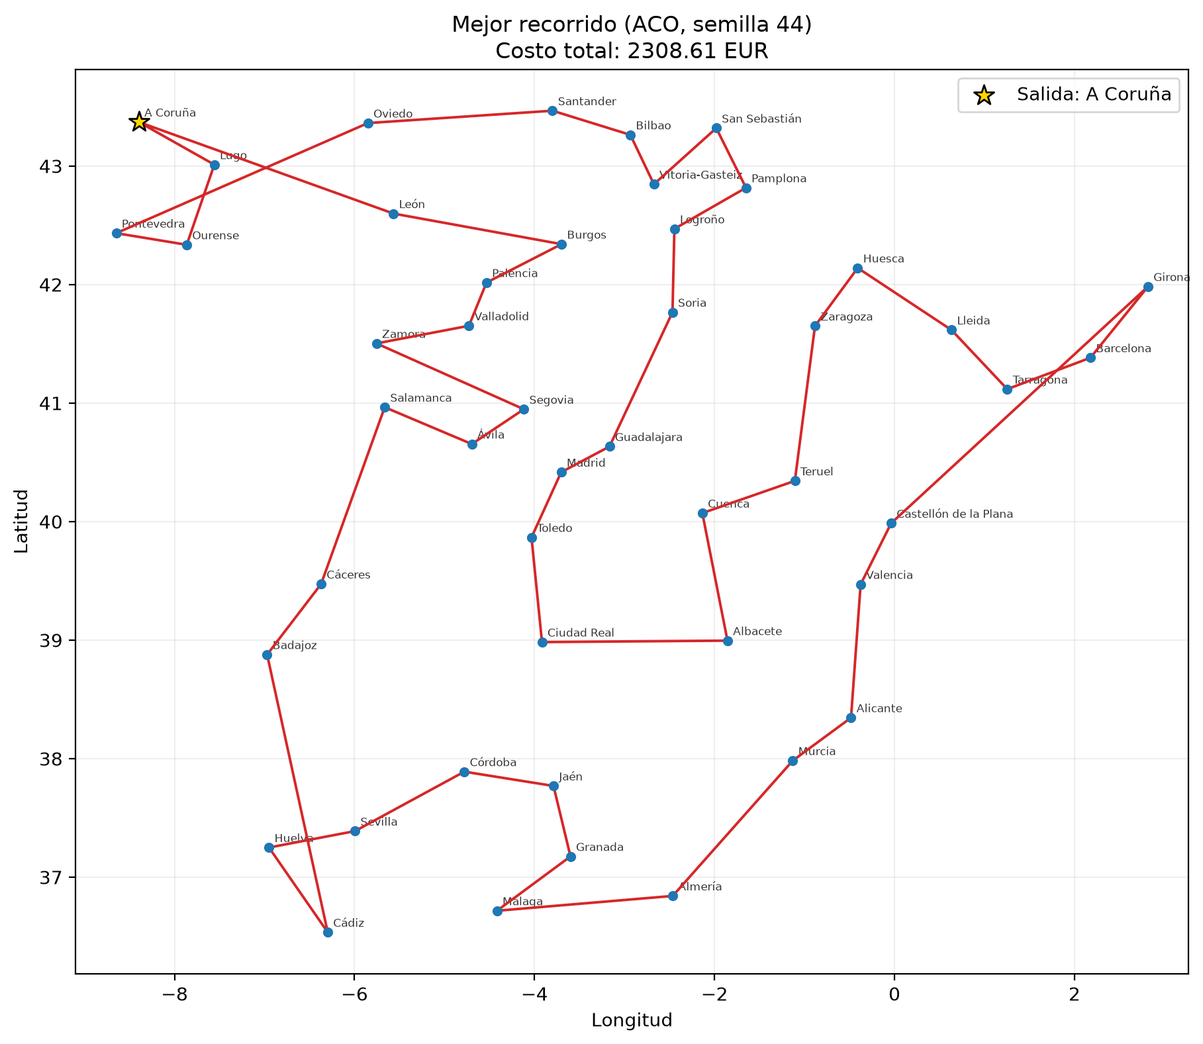
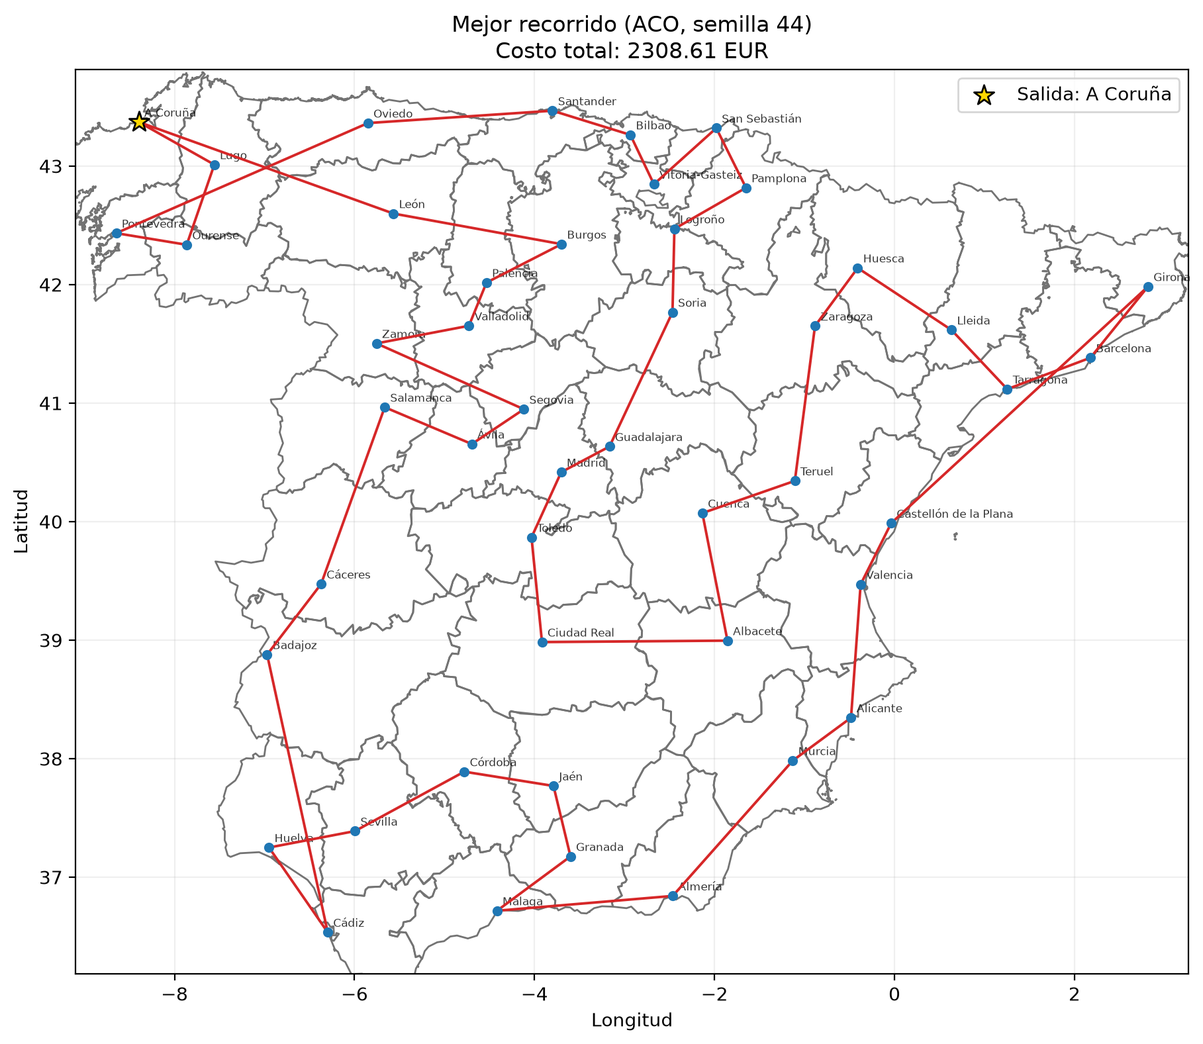
index.md y actualizaciones de resultados

diff --git a/docs/index.md b/docs/index.md
@@ -97,7 +97,7 @@ $$
 
 ### Problema del viajante con costo monetario (parte 2)
 
-Se busca la permutación π de las 47 ciudades que minimiza el costo del circuito cerrado. El costo del tramo i → j no es simétrico, porque el tiempo y los peajes dependen del sentido:
+Se busca la permutación π de las 47 ciudades que minimiza el costo del circuito cerrado. En general el costo del tramo i → j puede depender del sentido; con los datos usados (promedio de las rutas de ida y de vuelta) la matriz resulta simétrica:
 
 $$
 c_{ij}(h) = h\,t_{ij} + p_{ij} + d_{ij}\,\frac{l}{100}\,\pi_{\text{comb}}, \qquad C(\pi, h) = \sum_{k} c_{\pi_k \pi_{k+1}}(h)
@@ -229,44 +229,149 @@ Las dos funciones fallan al gradiente por razones distintas, y esa diferencia es
 
 ## Parte 2: datos y metodología
 
-El código de la parte 2 está completo, pero ninguno de sus datos de entrada está todavía verificado, así que esta sección describe el método y deja marcado, dato por dato, qué falta. Cada dato debe quedar con su fuente y su fecha de consulta (`data/sources.md`).
+Todos los datos se consultaron el 13 de octubre de 2026 y están guardados en el repositorio (`data/`), así que la ejecución no usa Internet. Las fuentes, fechas y limitaciones de cada dato están en `sources.md` y en `data/valhalla/FUENTES.md`.
 
-**Instancia.** 47 capitales de provincia de la España peninsular: las 50 provincias menos Palma, Las Palmas de Gran Canaria y Santa Cruz de Tenerife. Ceuta y Melilla no son capitales de provincia.
+**Instancia.** 47 capitales de provincia de la España peninsular: las 50 provincias menos Palma, Las Palmas de Gran Canaria y Santa Cruz de Tenerife. Ceuta y Melilla no son capitales de provincia. Las coordenadas se tomaron de Wikidata (propiedad P625), y el identificador de cada ciudad queda en `data/cities.csv` para que se pueda verificar.
 
 **Costo por tramo.** Para ir de i a j se suman tres componentes, todos en euros:
 
 - **Tiempo:** valor de la hora × horas de viaje.
-- **Peajes:** importe del trayecto para un turismo de clase 1.
+- **Peajes:** importe del trayecto para un vehículo ligero, sin descuentos.
 - **Combustible:** kilómetros × consumo (L/100 km) / 100 × precio del litro.
 
-Las matrices de distancia y tiempo se obtienen una sola vez de la API Table de OSRM, que devuelve la ruta más rápida según el perfil, no necesariamente la más corta ni la de menor costo; por eso la matriz puede ser asimétrica. Una vez guardadas en `data/`, la ejecución no depende de Internet.
+**Distancias y tiempos.** Se calcularon con Valhalla 3.9.1, un motor de rutas de código abierto sobre OpenStreetMap, en el servidor público de FOSSGIS. Para cada par se usa la ruta más rápida con peajes permitidos, calculada en los dos sentidos y promediada; por eso la matriz es simétrica. La mediana de los tramos es de 536 km y 5.2 h, y el más largo mide 1247 km. La misma ruta se usa para el tiempo, la distancia y los peajes, de modo que el costo de cada tramo corresponde a un único viaje real.
+
+La primera versión del código usaba OSRM (API Table). Al comparar ambas fuentes, la diferencia relativa de distancia tiene mediana 1.7 %, percentil 95 de 16.5 % y máximo de 50 %. Medir los peajes sobre una ruta y tomar el tiempo de otra habría dado costos que no corresponden a ningún viaje, así que se descartó mezclarlas. Los datos de OSRM se conservan en `data/osrm/` solo para comparar.
+
+**Peajes.** Se identificaron las autopistas de peaje que recorre cada ruta midiendo, arista por arista, los kilómetros sobre vías marcadas `toll=yes` en OpenStreetMap. Cada vía se asignó a su grupo tarifario y se calculó una tarifa por kilómetro a partir del peaje oficial de 2026 de un recorrido de referencia, medido con el mismo motor de rutas:
+
+$$
+\text{tarifa}_a = \frac{\text{peaje oficial del recorrido de referencia}}{\text{km de ese recorrido}}, \qquad p_{ij} = \sum_{a} \text{km}_{ij,a}\,\text{tarifa}_a + \text{cuotas fijas}
+$$
+
+La Tabla 2 muestra las tarifas resultantes. Los túneles de Artxanda tienen cuota fija: 1.55 EUR por paso.
+
+**Tabla 2.** Tarifas por kilómetro de las autopistas de peaje que usan las rutas, vehículo ligero, 2026. Fuente: PDF de tarifas del Ministerio de Transportes y Movilidad Sostenible, SEITT, Bidegi, Interbiak y Audenasa (URL por fila en `data/valhalla/peajes_2026.csv`).
+
+| Autopista | Peaje de referencia (EUR) | km de referencia | EUR/km |
+| --- | --- | --- | --- |
+| AP-6 Villalba – Adanero | 15.70 | 57.46 | 0.273 |
+| AP-51 Villacastín – Ávila | 1.75 | 23.46 | 0.075 |
+| AP-61 San Rafael – Segovia | 3.05 | 25.59 | 0.119 |
+| AP-9 A Coruña – Pontevedra | 16.35 | 111.60 | 0.147 |
+| AP-53 Santiago – Alto de Santo Domingo | 7.25 | 40.36 | 0.180 |
+| AP-66 Campomanes – León | 16.20 | 77.20 | 0.210 |
+| AP-71 León – Astorga | 6.20 | 35.03 | 0.177 |
+| AP-68 Bilbao – Zaragoza | 39.90 | 291.10 | 0.137 |
+| AP-15 Pamplona – Tudela | 11.40 | 69.52 | 0.164 |
+| AP-8/AP-1 Bilbao – Donostia | 13.81 | 75.96 | 0.182 |
+| R-2 | 5.20 | 57.09 | 0.091 |
+| R-3 | 3.40 | 25.35 | 0.134 |
+| R-4 | 6.15 | 51.01 | 0.121 |
+| R-5 | 3.65 | 20.53 | 0.178 |
+| AP-36 Corral de Almaguer – San Clemente | 14.15 | 118.69 | 0.119 |
+| AP-7 Málaga – Guadiaro | 12.00 | 71.45 | 0.168 |
+| C-32 Garraf y Cubelles | 13.45 | 32.73 | 0.411 |
+
+De los 1081 pares de ciudades, 607 (1214 pares dirigidos) pasan por al menos una autopista de peaje. El peaje medio de esos tramos es de 17.09 EUR, y el máximo es de 52.20 EUR (Albacete – Oviedo).
+
+Por ejemplo, de A Coruña a Albacete la ruta recorre 118.69 km de AP-36, 56.41 km de AP-6 y 50.69 km de R-4, y el peaje suma 14.15 + 15.41 + 6.11 = 35.67 EUR.
+
+**Vehículo y combustible.** Dacia Sandero TCe 90 de gasolina (67 kW), con consumo WLTP combinado de 5.3 L/100 km (ADAC Autokatalog). El precio de la gasolina 95 E5 es de 1.7961 EUR/L: la media simple de 10 238 estaciones de la España peninsular, según el Geoportal de Gasolineras del MITECO, con dato del 13/10/2026 a las 22:02.
 
 **Estado de cada dato.**
 
-| Dato | Fuente prevista | Estado |
+| Dato | Fuente | Estado |
 | --- | --- | --- |
-| Coordenadas de las 47 capitales | Fuente primaria (IGN, INE o ayuntamientos) | Las escribió la IA de memoria; solo pasan un control de cordura (rangos y 4 distancias desde Madrid con ±5 %) |
-| Distancias y tiempos | OSRM, API Table, perfil `driving` | Ubicado en data/distances.csv |
-| Peajes (2162 pares dirigidos) | Tarifas oficiales de cada concesionaria, clase 1 | **Pendiente:**  |
-| Vehículo y consumo | Ficha técnica del fabricante u homologación | Completo, vehiculo elegido Dacian Sanndero |
-| Precio del combustible | Fuente oficial con fecha | Fuente en experiment.json |
+| Coordenadas de las 47 capitales | Wikidata (P625) | Verificado; la versión anterior, escrita de memoria por la IA, difería como máximo 1.6 km |
+| Distancias y tiempos | Valhalla 3.9.1 sobre OpenStreetMap (FOSSGIS) | Completo, 1081 pares |
+| Peajes | Tarifas oficiales 2026 prorrateadas por km sobre la ruta de Valhalla | Completo, 2162 pares dirigidos; es una estimación, ver limitaciones |
+| Vehículo y consumo | ADAC Autokatalog | Completo |
+| Precio del combustible | Geoportal de Gasolineras (MITECO), 13/10/2026 | Completo |
 
-**Método para los peajes: decisión pendiente del equipo.** Identificar los tramos de peaje de cada itinerario y sumar las tarifas oficiales exige decidir cuánto del trabajo se hace a mano y cuánto se aproxima. Se exploró detectar los tramos automáticamente con OSRM y OpenStreetMap, pero esa vía se descartó y su código se retiró del repositorio (ver la cacería de la alucinación). Cualquier método que se adopte debe declarar si el importe es oficial o una estimación.
+**Limitaciones de los peajes.**
 
-**Algoritmos y parámetros.** ACO y AG descritos en la fundamentación. Con 3 corridas, ACO de 150 iteraciones y AG de 200 individuos × 400 generaciones, la configuración de ejemplo dura cerca de un minuto; son valores de demostración, no ajustados, y hay que justificar los definitivos. La semilla base es 42 y la corrida i usa 42 + i.
+- Prorratear por kilómetro es una aproximación: en la realidad se paga por tramo o por caseta.
+- Se supone el mismo peaje en los dos sentidos.
+- No se modelan descuentos por recurrencia ni tarifas nocturnas.
+- La concesión de la AP-68 termina el 10/11/2026; después de esa fecha su peaje es 0.
+- Hay tres tarifas con reservas:
+  - AP-15: la columna de la tabla de Audenasa se interpretó como vehículos ligeros.
+  - C-32: tarifa de una fuente secundaria.
+  - R-4 y AP-36: el PDF se titula 2026 pero dice "en vigor desde el 1 de enero de 2025".
 
-**Barrido del valor de la hora.** Para h en una malla (por defecto 0, 10, 20, 40, 80, 160 EUR/h) se ejecutan los algoritmos, se reúnen todas las rutas halladas y se calcula la envolvente inferior de sus rectas C(h) = h·T + M. Los vértices son los valores de h donde cambia la mejor ruta conocida.
+**Algoritmos y parámetros.** ACO y AG como se describen en la fundamentación, con la configuración de `config/experiment.json`:
+
+- ACO: 47 hormigas, 150 iteraciones, α = 1, β = 3, ρ = 0.35.
+- AG: 200 individuos, 400 generaciones, cruce 0.9, mutación 0.15.
+
+Se hicieron 10 corridas por algoritmo con valor de la hora h = 20 EUR/h. La semilla base es 42 y la corrida i usa 42 + i.
+
+**Barrido del valor de la hora.** Para h = 0, 10, 20, 40, 80 y 160 EUR/h se ejecutaron 3 corridas de ACO, se reunieron todas las rutas halladas y se calculó la envolvente inferior de sus rectas C(h) = h·T + M.
 
 ## Parte 2: resultados
 
-**[PENDIENTE: no hay resultados citables hasta cargar los datos reales.]** El código se probó solo con datos sintéticos inventados (`python main.py run --demo`), que no se pueden citar. Cuando existan los datos reales, esta sección debe contener lo siguiente, que `main.py run` y `main.py sweep` ya producen:
+El ACO encontró la ruta más barata y fue mucho más estable que el AG. La Tabla 3 resume las 10 corridas de cada algoritmo con h = 20 EUR/h.
 
-- **Comparación ACO y AG:** tabla con mejor, media, desviación, peor costo y segundos por algoritmo (`results/comparison.csv`), con el número de corridas y la semilla base 42.
-- **Mejor ruta:** el orden de las 47 capitales y el desglose en tiempo, peajes y combustible (`best_route.json`), con el mapa (`best_route.png`) y el GIF de su evolución (`evolution.gif`).
-- **Barrido del valor de la hora:** los valores de h en que cambia la mejor ruta conocida (`hourly_sweep_envelope.csv`) y la figura `hourly_sweep.png`. Esos cambios son una cota superior de los cambios reales, porque los heurísticos no garantizan optimalidad; la columna `gap_vs_best_known_eur` mide cuánto se alejó cada corrida de la mejor ruta conocida.
-- **Análisis:** cuál algoritmo es mejor y con qué parámetros, qué parte del costo pesa más y qué cambia en la ruta cuando sube h (más autopistas de peaje, menos tiempo).
+**Tabla 3.** Costo total del recorrido (EUR) en 10 corridas por algoritmo, h = 20 EUR/h, semillas 42 a 51.
 
-**Observación preliminar con datos sintéticos (no citable).** Con los parámetros de ejemplo, el ACO obtuvo costos menores que el AG (alrededor de 2314 frente a 2630 en la instancia sintética), lo que indica que el AG necesita ajuste de población, generaciones y operadores antes de la comparación definitiva.
+| Algoritmo | Mejor | Media | Desv. est. | Peor | Segundos por corrida |
+| --- | --- | --- | --- | --- | --- |
+| ACO | 2308.61 | 2401.35 | 35.26 | 2433.26 | 17.3 |
+| AG | 2465.36 | 2845.44 | 172.54 | 3092.52 | 10.4 |
+
+La mejor ruta del ACO (semilla 44) recorre 6941 km en 79.3 h. Su costo se reparte así:
+
+- tiempo: 1586.12 EUR (68.7 %);
+- combustible: 660.74 EUR (28.6 %);
+- peajes: 61.74 EUR (2.7 %).
+
+La mejor del AG (semilla 43) es 157 EUR más cara: recorre 587 km más y tarda 5.2 h más.
+
+**Mejor recorrido (ACO):** A Coruña → Lugo → Ourense → Pontevedra → Oviedo → Santander → Bilbao → Vitoria-Gasteiz → San Sebastián → Pamplona → Logroño → Soria → Guadalajara → Madrid → Toledo → Ciudad Real → Albacete → Cuenca → Teruel → Zaragoza → Huesca → Lleida → Tarragona → Barcelona → Girona → Castellón de la Plana → Valencia → Alicante → Murcia → Almería → Málaga → Granada → Jaén → Córdoba → Sevilla → Huelva → Cádiz → Badajoz → Cáceres → Salamanca → Ávila → Segovia → Zamora → Valladolid → Palencia → Burgos → León → A Coruña.
+
+![Mejor ruta ACO]({{ '/assets/img/tsp_mejor_ruta_aco.png' | relative_url }})
+
+**Figura 3.** Mejor recorrido del ACO sobre las provincias peninsulares (h = 20 EUR/h, semilla 44). Fuente: elaboración propia; polígonos de provincias de click_that_hood (Code for America).
+
+![Mejor ruta AG]({{ '/assets/img/tsp_mejor_ruta_ag.png' | relative_url }})
+
+**Figura 4.** Mejor recorrido del AG (h = 20 EUR/h, semilla 43). Fuente: elaboración propia.
+
+![Evolución del ACO]({{ '/assets/gif/tsp_aco_evolucion.gif' | relative_url }})
+
+**Animación 4.** Evolución de la mejor ruta del ACO a lo largo de las iteraciones. Se regenera con `python main.py run`.
+
+**Barrido del valor de la hora.** Las 18 rutas distintas que se encontraron en el barrido forman una envolvente inferior de solo dos tramos (Tabla 4 y Figura 5). La mejor ruta conocida cambia una sola vez, en h ≈ 8.56 EUR/h:
+
+- **Por debajo de ese valor** conviene una ruta 1.3 h más lenta pero 71 km más corta y con 17.76 EUR menos de peajes.
+- **Por encima** conviene la ruta más rápida, que es la de la Figura 3.
+
+**Tabla 4.** Envolvente inferior del barrido del valor de la hora (ACO, 3 corridas por valor). Fuente: `results/hourly_sweep_envelope.csv`.
+
+| Intervalo de h (EUR/h) | Horas | km | Peajes (EUR) | Hallada en |
+| --- | --- | --- | --- | --- |
+| [0, 8.56) | 80.59 | 7012 | 43.98 | h = 160 |
+| [8.56, ∞) | 79.31 | 6941 | 61.74 | h = 20 |
+
+![Barrido del valor de la hora]({{ '/assets/img/tsp_barrido_valor_hora.png' | relative_url }})
+
+**Figura 5.** Horas totales y gasto en peajes más combustible de la mejor corrida para cada valor de la hora, y de la mejor ruta conocida (línea negra). Fuente: elaboración propia.
+
+## Parte 2: discusión
+
+**El ACO superó al AG en costo y en estabilidad.** Su desviación estándar fue 5 veces menor. La visibilidad η = 1/c guía a cada hormiga hacia los tramos baratos desde la primera iteración. El AG, en cambio, parte de permutaciones aleatorias, y su mutación por intercambio de dos ciudades cambia cuatro aristas a la vez, casi siempre empeorando la ruta. Aun así, la mejor ruta del ACO tiene cruces visibles en la Figura 3 (por ejemplo, Girona – Castellón). Un recorrido con cruces no es óptimo: deshacer el cruce con un movimiento 2-opt lo acorta. Por eso ninguno de los dos resultados es el óptimo.
+
+**El ruido de los heurísticos pesa más que el efecto del valor de la hora.** 8 de las 10 corridas del ACO terminaron entre 2381 y 2433 EUR, lo que es consistente con el estancamiento de la feromona descrito en la cacería de la alucinación. En el barrido, la mejor corrida se alejó hasta 194.73 EUR de la mejor ruta conocida para el mismo h, y la ruta que resultó mejor para h < 8.56 se encontró corriendo con h = 160. Por eso el umbral de 8.56 EUR/h es una cota de lo que encontraron los heurísticos, no el umbral exacto del óptimo.
+
+**El tiempo domina el costo.** Con h = 20 EUR/h el tiempo representa el 69 % del total y los peajes menos del 3 %. Esto explica por qué la ruta cambia tan poco al subir h: las rutas buenas ya son casi las más rápidas.
+
+**Limitación del modelo: una sola ruta por par.** Cada tramo usa siempre la ruta más rápida, pague o no peaje, así que el valor de la hora solo puede cambiar el orden de las ciudades, no la decisión de pagar el peaje. Los datos de Valhalla incluyen también la ruta que evita peajes (`data/valhalla/rutas_valhalla.csv`). Por ejemplo, para A Coruña → Albacete con h = 20 EUR/h:
+
+- ruta con peaje (7.92 h, 855.6 km): 275.55 EUR;
+- ruta libre (8.33 h, 863.1 km): 248.78 EUR.
+
+El peaje solo compensa a partir de h ≈ 85 EUR/h. Un modelo con costo mín(ruta con peaje, ruta libre) por tramo respondería mejor a la pregunta del valor de la hora; queda como trabajo futuro.
 
 ## Reproducibilidad
 
@@ -275,25 +380,25 @@ Todo el trabajo se regenera desde un repositorio con un solo entorno para las do
 - **Entorno:** Python 3.11 o superior (probado con 3.13/3.14) y `requirements.txt` con versiones fijas: numpy 2.5.3, pandas 3.0.5, matplotlib 3.11.2, pillow 12.3.0 y requests 2.34.2. Las versiones instaladas coinciden con las fijadas; la instalación con `pip install -r requirements.txt` todavía no se probó en una máquina limpia.
 - **Semillas:** parte 1, base 12345; parte 2, base 42; la corrida i usa base + i. Mismas semillas, mismos resultados (hay una prueba para la parte 2 y el resultado de la parte 1 no cambió entre versiones de las bibliotecas).
 - **Parámetros:** se cambian por línea de comandos o por un JSON, sin editar el código (`--param método.nombre=valor`).
-- **Datos:** una vez generados los CSV de `parte2_tsp/data/`, la ejecución no usa Internet.
+- **Datos:** los CSV de `Optimizacion/Optimizacion_combinatoria/data/` ya están en el repositorio; la ejecución no usa Internet. Se regeneran desde los datos originales con `python importar_valhalla.py` y `python build_data.py --skip-osrm ...`.
 
 Comandos, ejecutados desde la carpeta de cada parte:
 
 ```bash
 # Parte 1
-cd parte1_numerica
+cd Optimizacion/Optimizacion_heuristica
 python main.py check                 # gradientes analíticos vs. diferencias finitas
 python main.py compare               # 30 corridas, 4 métodos, 2 funciones, 2D y 3D (~17 s)
 python main.py curves                # PNG de convergencia
 python main.py animate --method pso --function rastrigin --seed 3   # GIF (~25 s)
 
 # Parte 2
-cd ../parte2_tsp
-python build_data.py                 # matrices de OSRM (una vez, con Internet)
-python main.py validate
-python main.py run
-python main.py sweep --hourly-values 0 10 20 40 80 160
-python -m unittest discover -s tests # 35 pruebas (~4 s)
+cd ../Optimizacion_combinatoria
+python main.py validate                     # revisa datos y matriz de costos
+python main.py run --runs 10                # Tabla 3, Figuras 3 y 4, Animación 4 (~6 min)
+python main.py run --runs 1 --param aco.iterations=80 --param genetic_algorithm.generations=200   # demostración (< 2 min)
+python main.py sweep --runs 3               # Tabla 4 y Figura 5 (~4 min)
+python -m unittest discover -s tests        # 35 pruebas
 ```
 
 ## Uso de inteligencia artificial
@@ -305,6 +410,9 @@ python -m unittest discover -s tests # 35 pruebas (~4 s)
 | Completar y corregir comentarios | La gran parte de comentarios | Se verificaron la mayoria de comentarios |
 | Generar archivos complementarios de la parte 2 | build_data.py (a partir de OSRM), main.py, tsp_data.py, sources.md, requirements.txt y README.md | Se verificaron los datos extraidos |
 | Generar reporte en markdown a partir de documento y complementos | Produjo la gran mayoria del texto de este documento y los otros archivos en docs | Se valido en la pagina del blog |
+| Construir los datos reales de la parte 2 (rutas, peajes, combustible) | Consultas a Valhalla y a la API del MITECO, tabla de tarifas `peajes_2026.csv` con URL oficial por fila, `build_rutas.py` y `FUENTES.md` | Se abrieron los PDF oficiales de cada tarifa; se calculó a mano el peaje de A Coruña – Albacete (35.67 EUR) y coincidió con el CSV |
+| Revisar el código de la parte 2 e integrar los datos | Diagnóstico de lo que faltaba, `importar_valhalla.py`, `preparar_mapa.py`, `sources.md` y README actualizados | `python main.py validate`, las 35 pruebas y una corrida completa; se compararon las distancias de OSRM y Valhalla |
+| Redactar las secciones de datos, resultados y discusión de la parte 2 | Texto de este reporte a partir de los CSV de `results/` | Cada cifra se comprobó contra `comparison.csv`, `best_route.json` y `hourly_sweep_envelope.csv` |
 
 
 ## Cacería de la alucinación
@@ -318,21 +426,31 @@ Se registran los errores y suposiciones falsas del asistente que se detectaron a
 | 3 | Las columnas `ciudad/lon/lat` y `ruta/costo` del script de visualización original eran compatibles con el resto | El script de datos usaba `city/longitude/latitude` y los algoritmos devuelven `route/cost/generation` | Se unificaron los nombres en la versión en inglés |
 | 4 | OSRM público expone la clase `toll` en sus rutas, así que detectar peajes era leer ese campo | El equipo ejecutó la detección y el servidor no devolvió ninguna clase; la salvaguarda del código se negó a seguir en vez de marcar toda ruta como gratuita | Se probó una segunda versión (cruzar la geometría de la ruta con las vías de OpenStreetMap); tampoco se pudo descargar la geometría (504 de Overpass). Se retiró todo el codigo |
 | 5 | Un cambio de nombres de módulos y variables en la parte 1 no afectaba al resultado | Colisiones de nombres de módulos (`functions`) y claves de diccionario que también se habían renombrado | Se corrigieron las importaciones y se comprobó que los resultados eran idénticos|
+| 6 | `build_data.py` (generado por IA) usaba por defecto 6.0 L/100 km y 1.60 EUR/L, mientras que el vehículo de `config/experiment.json` consume 5.3 L/100 km a 1.7961 EUR/L | Al comparar `data/cost_matrix.csv` con la matriz que construye `main.py`: los valores por defecto del script no son los del vehículo, así que la matriz guardada no coincidía con la usada | Se pasan los valores de forma explícita (`--consumption 5.3 --fuel-price 1.7961`) y el comando quedó documentado en el README |
+| 7 | El README y `sources.md` generados por IA citaban archivos y carpetas que no existen: `genetic_algorithm.py`, `tsp_visualization.py`, `toll_tools.py` y `parte2_tsp/` | Al seguir las instrucciones del README en el repositorio clonado, los comandos y referencias no encontraban los archivos (los reales son `algoritmo_genetico.py` y `tsp_visualizacion.py`) | Se corrigieron los nombres en el README y se retiró la descripción de `toll_tools.py` de `sources.md` |
+| 8 | Las coordenadas de las 47 capitales en `cities.csv` las escribió la IA de memoria, sin fuente | `sources.md` lo declaraba; un dato sin fuente no se puede citar | Se reemplazaron por las de Wikidata (P625). La diferencia máxima fue de 1.6 km (A Coruña): eran aproximadas, no inventadas, pero no eran verificables |
 
 
 ## Referencias
 
+- ADAC. (s. f.). *Dacia Sandero (3. Generation) TCe 90* [Ficha técnica, ADAC Autokatalog]. Recuperado el 13 de octubre de 2026 de https://www.adac.de/rund-ums-fahrzeug/autokatalog/marken-modelle/dacia/sandero/3generation/334757
 - Armijo, L. (1966). Minimization of functions having Lipschitz continuous first partial derivatives. *Pacific Journal of Mathematics, 16*(1), 1–3.
 - Clerc, M., & Kennedy, J. (2002). The particle swarm: Explosion, stability, and convergence in a multidimensional complex space. *IEEE Transactions on Evolutionary Computation, 6*(1), 58–73.
+- Code for America. (s. f.). *click_that_hood* [Repositorio de GitHub]. Recuperado el 13 de octubre de 2026 de https://github.com/codeforamerica/click_that_hood
 - Davis, L. (1985). Applying adaptive algorithms to epistatic domains. En *Proceedings of the 9th International Joint Conference on Artificial Intelligence* (Vol. 1, pp. 162–164).
 - Dorigo, M., Maniezzo, V., & Colorni, A. (1996). Ant system: Optimization by a colony of cooperating agents. *IEEE Transactions on Systems, Man, and Cybernetics, Part B, 26*(1), 29–41.
 - Eshelman, L. J., & Schaffer, J. D. (1993). Real-coded genetic algorithms and interval-schemata. En L. D. Whitley (Ed.), *Foundations of genetic algorithms 2* (pp. 187–202). Morgan Kaufmann.
 - Holland, J. H. (1975). *Adaptation in natural and artificial systems*. University of Michigan Press.
 - Kennedy, J., & Eberhart, R. (1995). Particle swarm optimization. En *Proceedings of ICNN'95: International Conference on Neural Networks* (Vol. 4, pp. 1942–1948). IEEE.
 - Luxen, D., & Vetter, C. (2011). Real-time routing with OpenStreetMap data. En *Proceedings of the 19th ACM SIGSPATIAL International Conference on Advances in Geographic Information Systems* (pp. 513–516). ACM.
+- Ministerio de Transportes y Movilidad Sostenible. (2026). *Peajes vigentes desde el 01/01/2026* [Tarifas por autopista]. Recuperado el 13 de octubre de 2026 de https://www.transportes.gob.es
+- Ministerio para la Transición Ecológica y el Reto Demográfico. (2026). *Precios de carburantes en estaciones de servicio terrestres* [API REST, Geoportal de Gasolineras]. Recuperado el 13 de octubre de 2026 de https://sedeaplicaciones.minetur.gob.es/ServiciosRESTCarburantes/PreciosCarburantes/EstacionesTerrestres/
 - Nocedal, J., & Wright, S. J. (2006). *Numerical optimization* (2.ª ed.). Springer.
+- OpenStreetMap contributors. (2026). *OpenStreetMap* [Base de datos geográfica]. https://www.openstreetmap.org
 - Project OSRM. (s. f.). *OSRM API documentation*. https://project-osrm.org/docs/v5.24.0/api/.
 - Rosenbrock, H. H. (1960). An automatic method for finding the greatest or least value of a function. *The Computer Journal, 3*(3).
 - Storn, R., & Price, K. (1997). Differential evolution: A simple and efficient heuristic for global optimization over continuous spaces. *Journal of Global Optimization, 11*(4).
 - Stützle, T., & Hoos, H. H. (2000). MAX–MIN ant system. *Future Generation Computer Systems, 16*(8).
 - Törn, A., & Žilinskas, A. (1989). *Global optimization* (Lecture Notes in Computer Science, Vol. 350).
+- Valhalla contributors. (2025). *Valhalla* (Versión 3.9.1) [Software]. https://github.com/valhalla/valhalla
+- Wikidata. (2026). *Wikidata Query Service*. Recuperado el 13 de octubre de 2026 de https://query.wikidata.org
